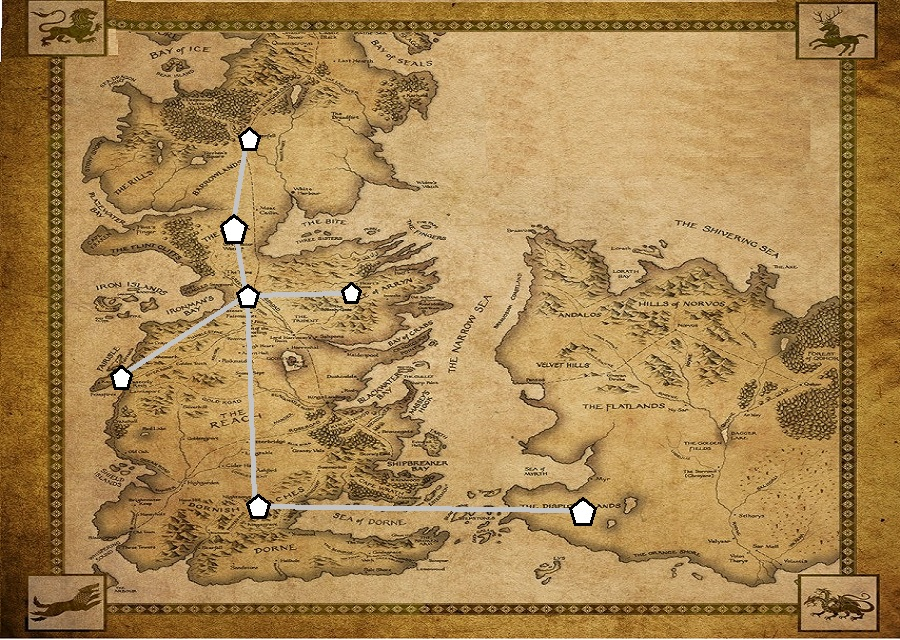
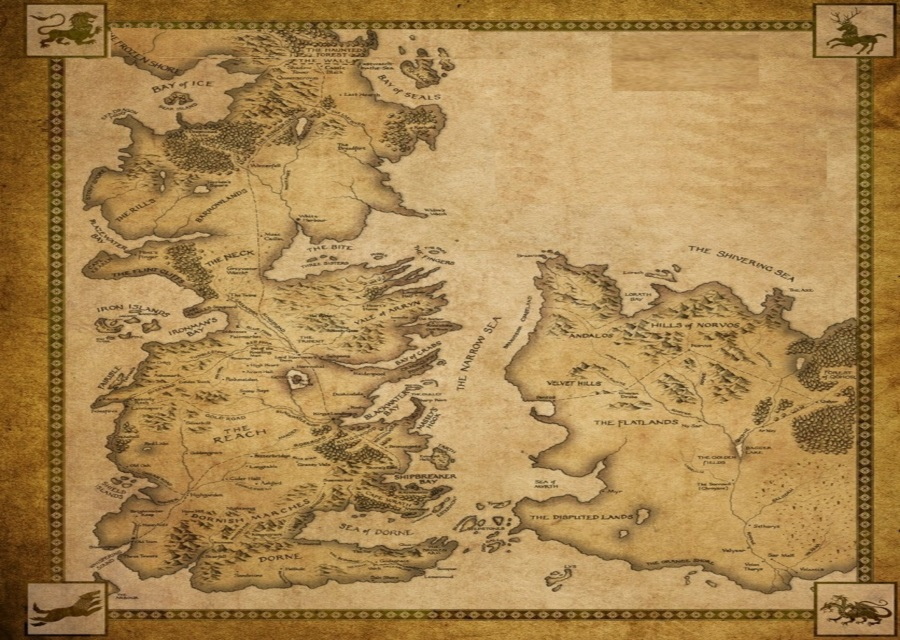
Kings landing in the right spot.
also maps open as you beat their PREREQUESITES

diff --git a/brownsauce.js b/brownsauce.js
@@ -1664,6 +1664,7 @@ function endGame(win){
 		mode=1;
 		maps[mapSelected].team=0;
 		//comeback
+	
 		for(var i=0; i<armies[0].numSquads;i++)
 		{
 			armies[0].squads[i].healStatus();
@@ -1802,6 +1803,17 @@ function army() {
 				}
 			}
 		}
+	};
+	this.getCost=function(){
+		var ca=0;
+		for( var j=0;j<this.numSquads;j++)
+				{
+					if(this.squads[j].deployed)
+					{
+						ca+=this.squads[j].getCost();
+					}
+				}
+				return ca;
 	};
 	this.call=function (nme){
 		for(var i=0;i<this.numLooseUnits;i++)
@@ -2063,23 +2075,51 @@ function army() {
         var texticles= "Name: " + this.name;
         canvas.fillText(texticles, 360, 122);
         
-        texticles= "Unit's Lost: " ;
+        texticles= "Unit's Lost: who knows" ;
         canvas.fillText(texticles, 360, 137);
         
-        texticles= "Unit's Killed:";
+        texticles= "Unit's Killed: who knows";
         canvas.fillText(texticles, 60, 152);
+		
+		canvas.fillText("Squads surviving: "+armies[0].numSquadsAlive(), 360, 152);
         
         texticles= "Day's Past:" + theTime.days;
         canvas.fillText(texticles, 60, 172);
         
-        texticles= "Wins: ";
+        texticles= "Wins/losses: " +armies[0].wins+ " / " + armies[0].losses;
         canvas.fillText(texticles, 60, 192);
- 
-		texticles="Losses";
-        canvas.fillText(texticles, 360, 172);
        
-        var texticles= "You have defeated some douche!";
+        var texticles= "You have defeated "+ towns[1].speaker;
 		canvas.fillText(texticles, 60, 122);
+		//gold earned/lost?
+		canvas.fillText("Squads: "+armies[0].numSquadsAlive(), 680, 24);
+		canvas.fillText("Units: " + numArmyUnits(0), 680, 38);
+    };
+	
+	this.drawProjections=function(){
+        
+        canvas.save();
+        canvas.globalAlpha=0.60;
+        canvas.fillStyle =  "#DCDCDC";
+        canvas.fillRect(250,195,420,400);
+        canvas.fillStyle =bColors[4];//Math.floor(Math.random()*5)];// "#483D8B ";
+        canvas.fillRect(265,210,390,370);
+        canvas.restore();
+        canvas.font = "14pt Calibri";
+        canvas.textAlign = "left";
+        canvas.textBaseline = "middle";
+
+        canvas.fillStyle = "white";
+        var texticles= "Gold: " + this.gold;
+        canvas.fillText(texticles, 310, 242);
+		
+		var texticles= "Daily Expenses: " + this.getCost();
+        canvas.fillText(texticles, 310, 282);
+		
+		var texticles= "Daily Income: about tree fiddy.";
+        canvas.fillText(texticles, 310, 322);
+        
+
     };
 }
 
@@ -4001,12 +4041,18 @@ function worldMapUpdate(){
 		canvas.fillStyle = "white";
 		canvas.fillText("LOADING....", 740, 627);
 	}
-	for(var i=0;i<numMapPoints;i++){
-		if(maps[i].team==0){
+	for(var i=0;i<numMapPoints;i++)
+	{
+
+		if(maps[i].team==0)
+		{
 			bluelocationsprite.draw(canvas,maps[i].x,maps[i].y);
 		}else
 		{
-			redlocationsprite.draw(canvas,maps[i].x,maps[i].y);
+			if((i==0) || (maps[maps[i].preReq].team==0))
+				{
+					redlocationsprite.draw(canvas,maps[i].x,maps[i].y);
+				}
 		}
 	}
 	armies[0].leader.sprite.draw(canvas,maps[mapSelected].x,maps[mapSelected].y);
@@ -4779,7 +4825,7 @@ function mapUpdate() {
     checkEndGame();
 	if(victory){
 		canvas.fillStyle = "white";
-		armies[0].drawResults();
+		armies[0].drawProjections();//drawResults();
 		victoryCount++;
 		if(victoryCount>victoryLap){
 			victoryCount=0;

diff --git a/equipment.js b/equipment.js
@@ -284,43 +284,47 @@ var maps=new Array(5);
 var mapIconWidth=32;
 var mapIconHeight=45;
 maps[0]=[];
-maps[0].x=236;
-maps[0].y=124;
+maps[0].x=270;
+maps[0].y=140;
 maps[0].team=1;
 maps[0].numTowns=6;
 maps[0].name="The North";
+/*maps[0].preReq=new Array();
+maps[0].preReq.push(0);*/
 //maps[1].buildMap("map3");
 maps[1]=[];
-maps[1].x=220;
-maps[1].y=209;
+maps[1].x=230;
+maps[1].y=281;
 maps[1].team=1;
 maps[1].numTowns=6;
 maps[1].name="The Neck";
+maps[1].preReq=0;
 
 maps[2]=[];
-maps[2].x=236;
-maps[2].y=283;
+maps[2].x=241;
+maps[2].y=343;
 maps[2].team=1;
 maps[2].numTowns=6;
 maps[2].name="The Riverlands";
-
+maps[2].preReq=1;
 
 //maps[3].buildMap("map");
 
 maps[3]=[];
-maps[3].x=102;
-maps[3].y=361;
+maps[3].x=333;
+maps[3].y=418;
 maps[3].team=1;
 maps[3].numTowns=6;
 maps[3].name="Kings Landing";
-//maps[4].buildMap("map4");
+maps[3].preReq=2;
 
 maps[4]=[];
-maps[4].x=240;
-maps[4].y=488;
+maps[4].x=253;
+maps[4].y=545;
 maps[4].team=1;
 maps[4].numTowns=6;
 maps[4].name="The Dornish Marches";
+maps[4].preReq=3;
 function equipment() {
     this.name="none";
     this.hitAll=false;
